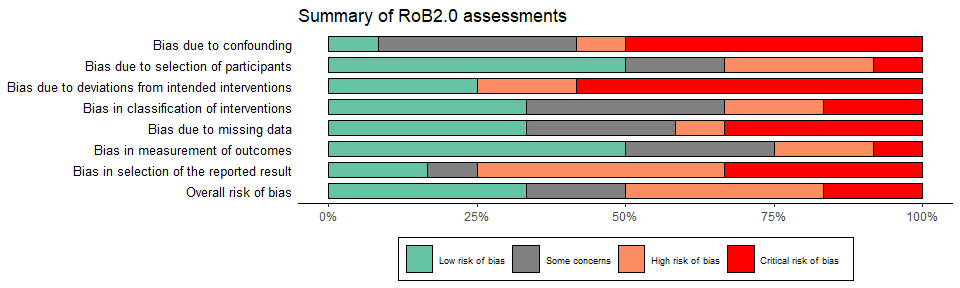
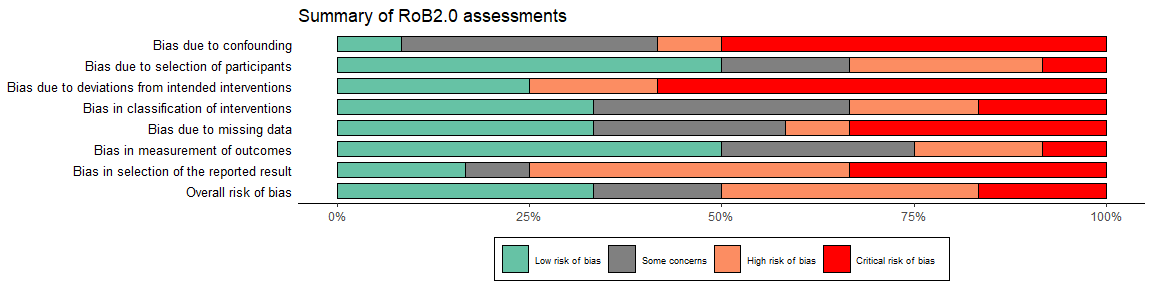
Update README.md

diff --git a/README.md b/README.md
@@ -65,7 +65,7 @@ plot_rob <- rob_summary(data = data_rob, tool = "ROB2")
 plot_rob
 ```
 
-<img src="man/figures/README-unnamed-chunk-5-1.png" width="70%" />
+<img src="man/figures/README-unnamed-chunk-5-1.png" width="80%" />
 
 **For the ROBINS-I tool for non-randomised studies of interventions:**
 
@@ -74,7 +74,7 @@ plot_robins <- rob_summary(data = data_robins, tool = "ROBINS-I")
 plot_robins
 ```
 
-<img src="man/figures/README-unnamed-chunk-6-1.png" width="70%" />
+<img src="man/figures/README-unnamed-chunk-6-1.png" width="80%" />
 
 **For the QUADAS-2 tool for diagnostic accuracy studies:**
 
@@ -83,7 +83,7 @@ plot_quadas <- rob_summary(data = data_quadas, tool = "QUADAS-2")
 plot_quadas
 ```
 
-<img src="man/figures/README-unnamed-chunk-7-1.png" width="70%" />
+<img src="man/figures/README-unnamed-chunk-7-1.png" width="80%" />
 
 ### Include overall risk-of-bias judgements
 
@@ -92,7 +92,7 @@ plot_rob <- rob_summary(data = data_robins, tool = "ROBINS-I", overall = TRUE)
 plot_rob
 ```
 
-<img src="man/figures/README-unnamed-chunk-8-1.png" width="70%" />
+<img src="man/figures/README-unnamed-chunk-8-1.png" width="80%" />
 
 Additional usage
 ----------------
@@ -108,7 +108,7 @@ plot_rob +
   ggtitle("Summary of RoB2.0 assessments")
 ```
 
-<img src="man/figures/README-unnamed-chunk-9-1.png" width="70%" />
+<img src="man/figures/README-unnamed-chunk-9-1.png" width="80%" />
 
 License
 -------
